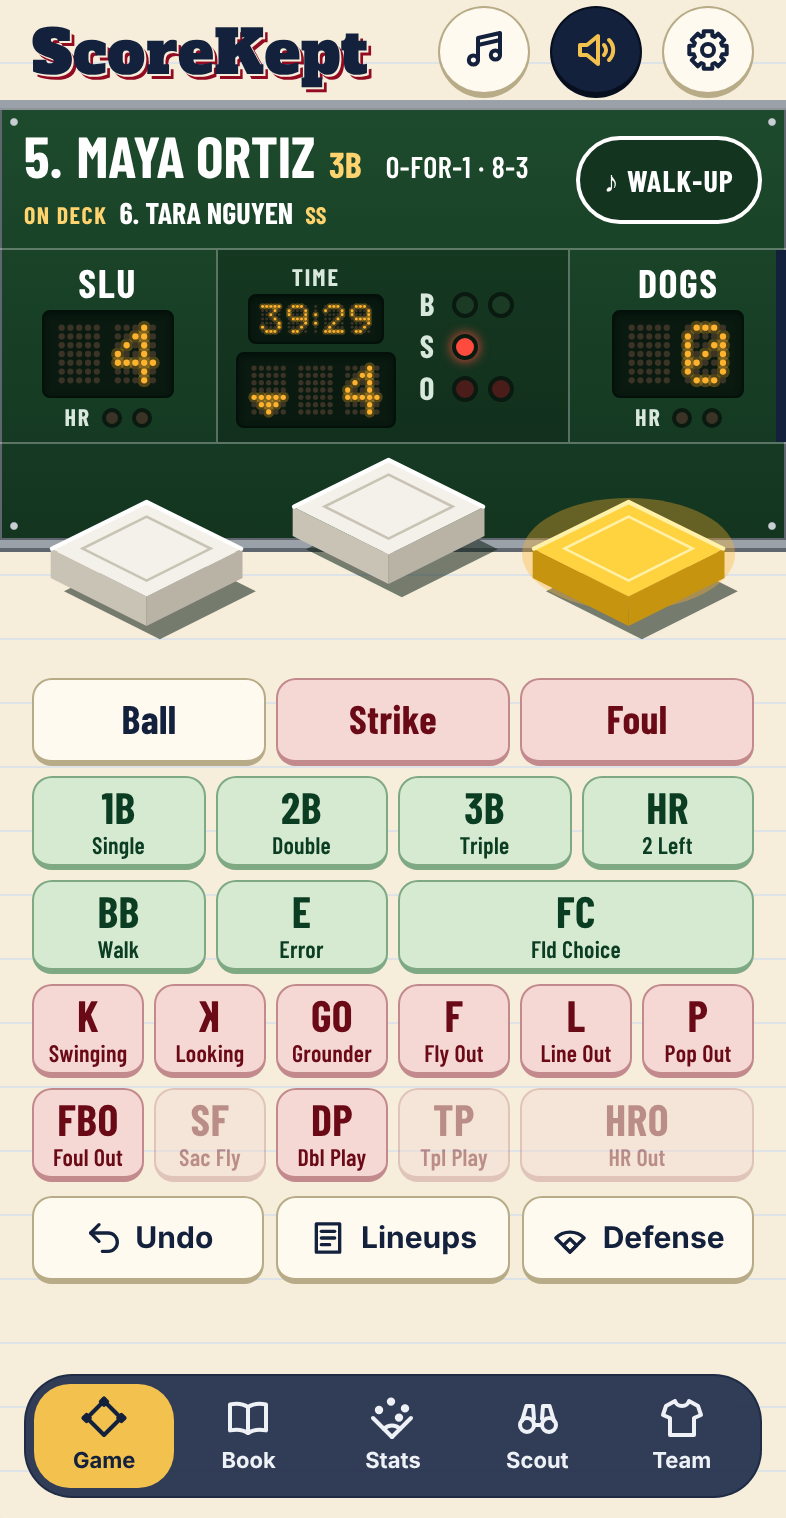
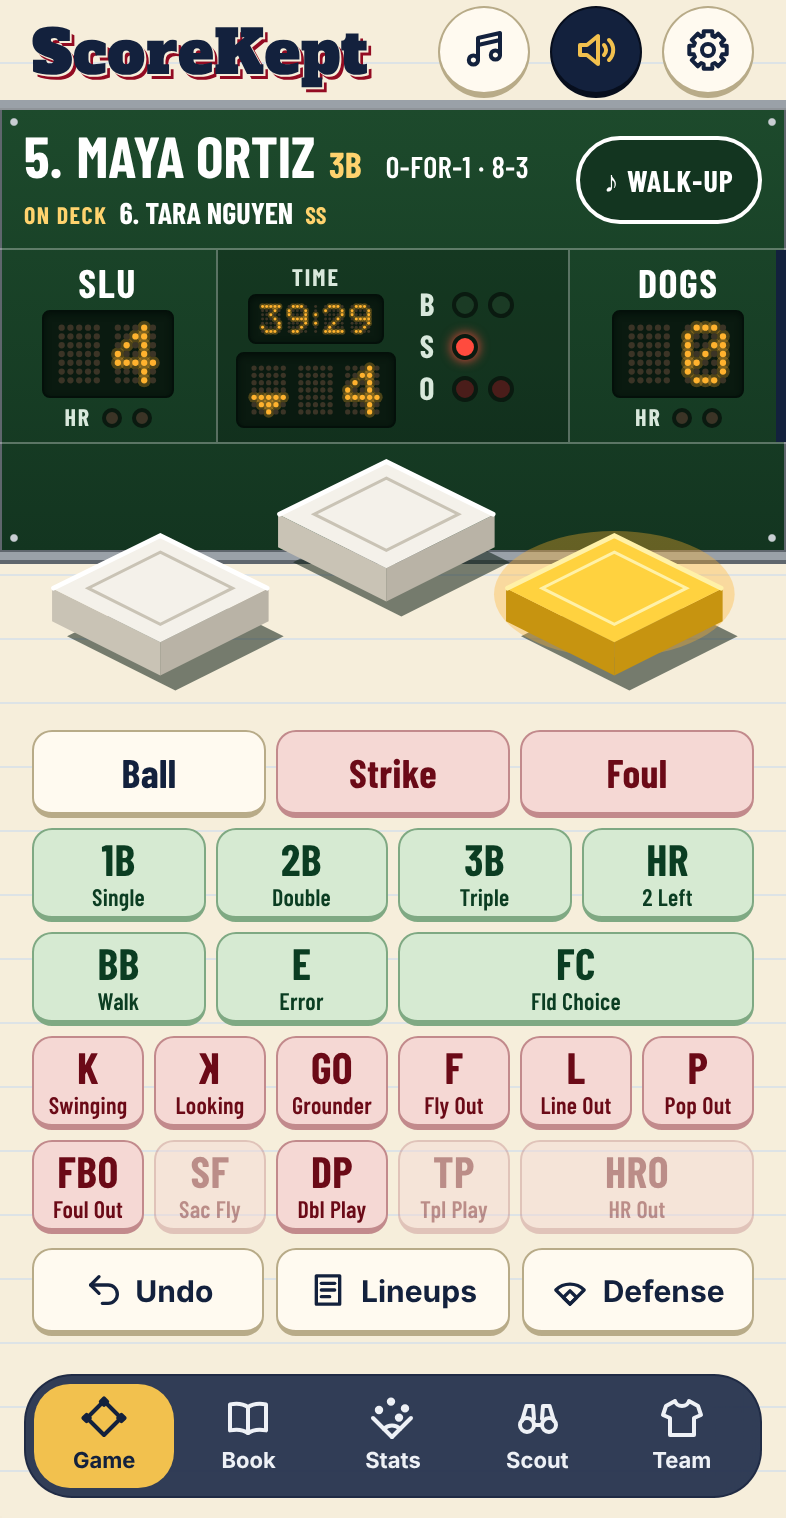
Game: bigger bases, first and third lower and closer to second
Claude-Session: https://claude.ai/code/session_019GkS5eEiAzmEB3GrHC5aVf

Changed region(s): [[0.0, 0.3096, 1.0, 0.8979]]

diff --git a/src/ui/game/game.css b/src/ui/game/game.css
@@ -355,9 +355,9 @@
  * never cover the pad.
  */
 .gm-board {
-  --bag: clamp(66px, 31cqi, 120px);
+  --bag: clamp(70px, 35cqi, 136px);
   --bag-h: calc(var(--bag) * 0.738);
-  --bag-drop: calc(var(--bag-h) * 0.26);
+  --bag-drop: calc(var(--bag-h) * 0.4);
   /* How far second base rises over the board's bottom edge, onto the band. */
   --bag-lift: calc(var(--bag-h) * 0.56);
   overflow: visible;
@@ -400,14 +400,20 @@
   left: calc(50% - var(--bag) / 2);
 }
 
+/* First and third sit lower and nearer the viewer, so they draw over second's back corners. */
+.gm-base-1,
+.gm-base-3 {
+  z-index: 1;
+}
+
 .gm-base-1 {
   top: var(--bag-drop);
-  left: calc(50% + var(--bag) * 0.58);
+  left: calc(50% + var(--bag) * 0.4);
 }
 
 .gm-base-3 {
   top: var(--bag-drop);
-  right: calc(50% + var(--bag) * 0.58);
+  right: calc(50% + var(--bag) * 0.4);
 }
 
 .gm-bag-hi {

diff --git a/src/content/whats-new.ts b/src/content/whats-new.ts
@@ -10,6 +10,11 @@ export interface WhatsNewEntry {
 
 export const WHATS_NEW: WhatsNewEntry[] = [
   {
+    version: '2026.11.13-9',
+    headline: 'The Bags Got Bigger',
+    lines: ['The bases on the scoreboard are bigger again, with first and third set lower and tucked in close to second, like the infield from the press box.'],
+  },
+  {
     version: '2026.11.13-8',
     headline: 'Now Batting, in Big Letters',
     lines: [

diff --git a/src/version.ts b/src/version.ts
@@ -1,2 +1,2 @@
 // Bump on every push that changes the app. Format: YYYY.MM.DD-N
-export const APP_VERSION = '2026.11.13-8';
+export const APP_VERSION = '2026.11.13-9';

diff --git a/docs/SPEC.md b/docs/SPEC.md
@@ -311,7 +311,7 @@ Grouped; each item opens its own screen; ✕ or Done returns to Settings:
 - **Fit on a real iPhone (2026.11.12-10):** safe areas are `--safe-top` and `--safe-bottom` (from `env()`); the body pads for them once and `.sk-app` fills only the rest, so the Game screen no longer scrolls by the height of the Dynamic Island and Home indicator. A fit test stands in for the full 393 × 852 screen with safe areas 59 and 34. The Settings gear is redrawn with eight even teeth.
 - **Scorebug, Steve's Option B (2026.11.13-3, from his Photoshop mock: "our FOX MLB quality scorebug, relaying good relevant info at a glance"):**
   - **Board:** on iPhone upright it runs edge to edge (frame on top and bottom only). Batter row: spot, name, position, and the season line beside them (".235 · 1 HR · 0 RBI", wrapping under the name when there's no room), then **Today** in gold: hits for at-bats, each trip by its Book code, RBI, runs ("0-for-1 · 8-3"). The little at-bat boxes are gone. Score row: each team's name, bulb runs, and HR lamps; the middle (a shade darker) has the clock over the inning in bulbs, with **B**, **S**, **O** lamps stacked beside them. The separate BALL / STRIKE / OUT lamp row is gone. On Deck and the hanging bases as before.
-  - **Second pass (2026.11.13-8, Steve's mock with notes):** the name gets the room first: a bigger name and position with today's line after them ("0-FOR-1 · 8-3"; it gives up its room before the name shrinks), and **On Deck** with name and position on a small line under it, inside the batter card (the separate On Deck strip, its stats, In the Hole, and the season line are gone; season stats live on the Stats tab). The clock always shows minutes and seconds ("39:29") in one housing. B, S, O always keep room for three ball lamps, so a four-ball walk fits and the board never shifts. Short names may be six letters and fit the score row down to 260 points. The bases are bigger (31% of the width, up to 120 points) and sit on a plain green band at the board's bottom edge, second base half on the board, first and third overlapping its edge. ♪ Walk-Up stays on the right.
+  - **Second pass (2026.11.13-8, Steve's mock with notes):** the name gets the room first: a bigger name and position with today's line after them ("0-FOR-1 · 8-3"; it gives up its room before the name shrinks), and **On Deck** with name and position on a small line under it, inside the batter card (the separate On Deck strip, its stats, In the Hole, and the season line are gone; season stats live on the Stats tab). The clock always shows minutes and seconds ("39:29") in one housing. B, S, O always keep room for three ball lamps, so a four-ball walk fits and the board never shifts. Short names may be six letters and fit the score row down to 260 points. The bases are bigger and sit on a plain green band at the board's bottom edge, second base half on the board. Follow-up (2026.11.13-9, Steve's mock): bases 35% of the width (70 to 136 points); first and third hang lower (40% of a bag's height below second) and closer in (centers 0.9 of a bag from second), drawn over second's back corners. ♪ Walk-Up stays on the right.
   - **Pad:** the pitch row is **Ball · Strike · Foul** with no small words (Look and Swing are gone). Ball turns green when it would be ball four, and Strike and Foul turn red when they'd make the out. Strike always works: at the strikeout count it records a swinging strikeout; the backwards K is for a called one (2026.11.13-4, Steve: a dimmed Strike after one strike, under the 2+ HR Division's two-strike rule, looked broken). VoiceOver hears what each pitch does as the button's description. **BB** stays on the pad with the count on (the intentional walk). Batter Reaches is four wide (1B 2B 3B HR / BB E FC, FC two wide); Batter Out keeps its six-wide rows, Triple Play included. The Batter Reaches and Batter Out labels are for VoiceOver only now. The Game screen has 51 points to spare on an iPhone 16.
 - **HRO dimmed under the limit (2026.11.12-9):** "Home runs still count: 2 left before the limit" until the team is over its home-run limit; "This league has no home run limit" without one.
 - **Stats tab icon (2026.11.12-9):** a spray chart (foul lines, the infield arc, four dots), Steve's pick.
